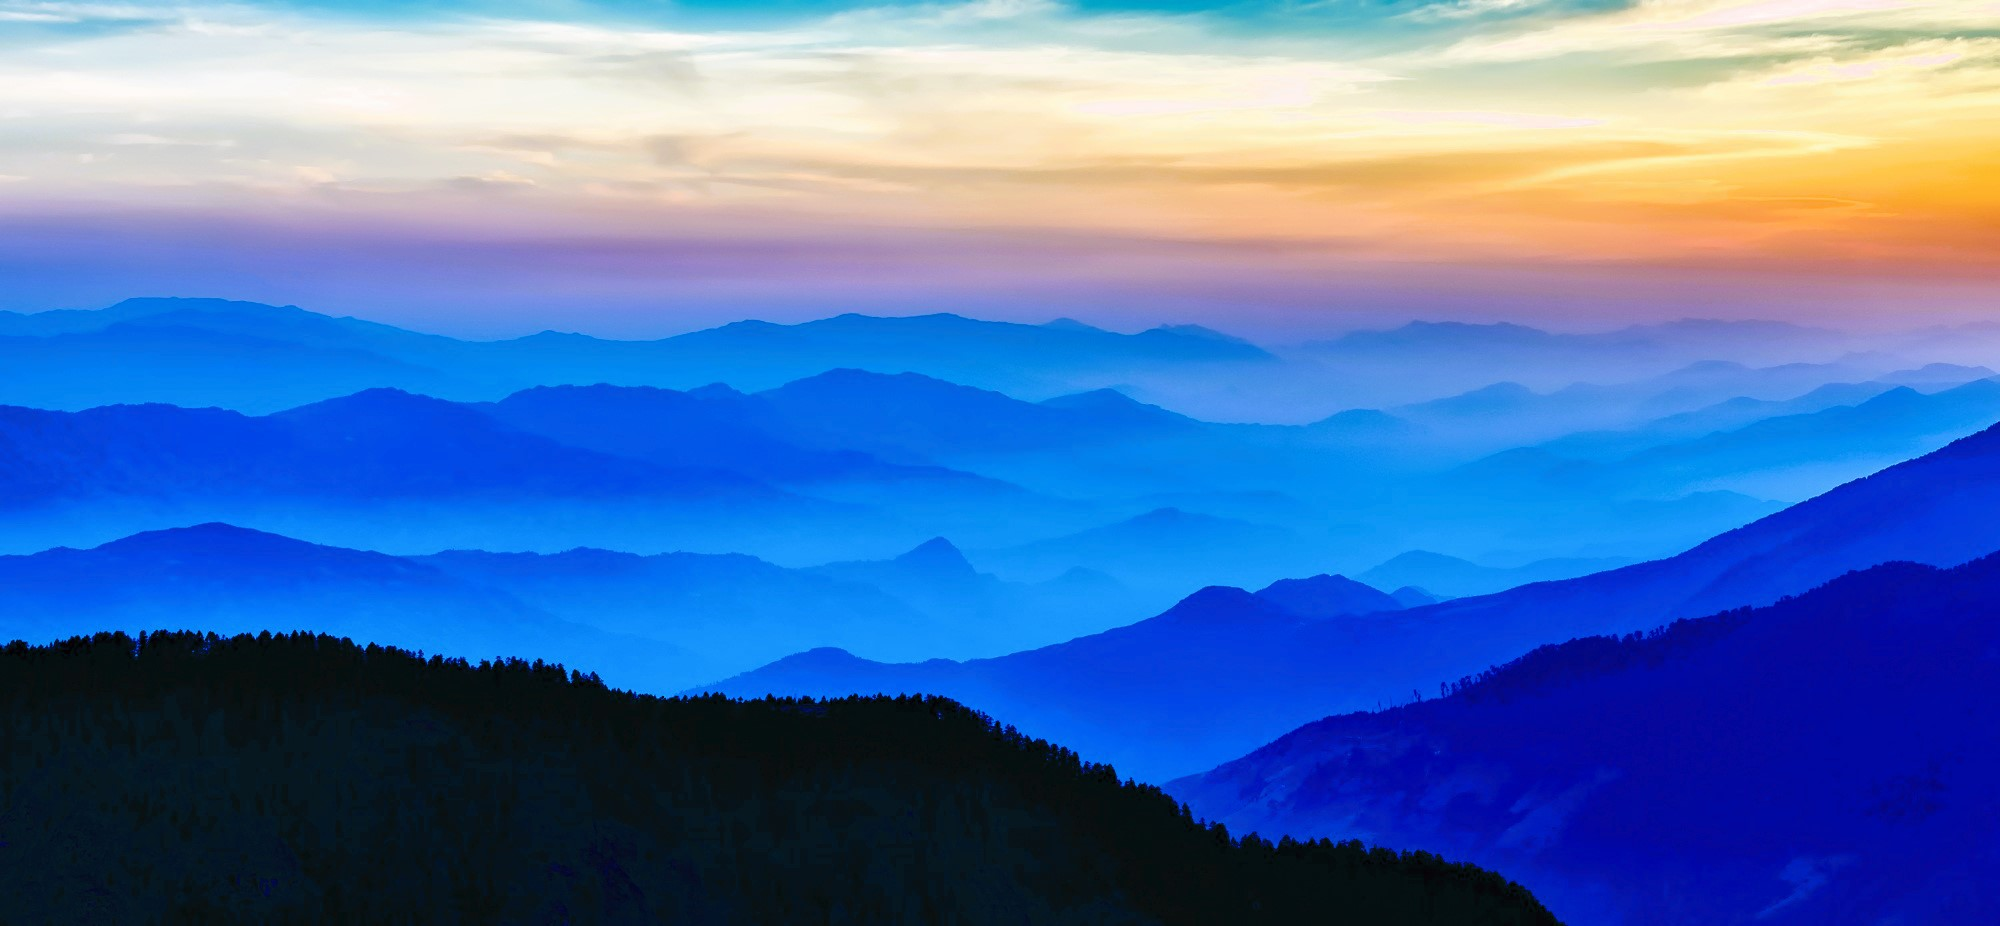
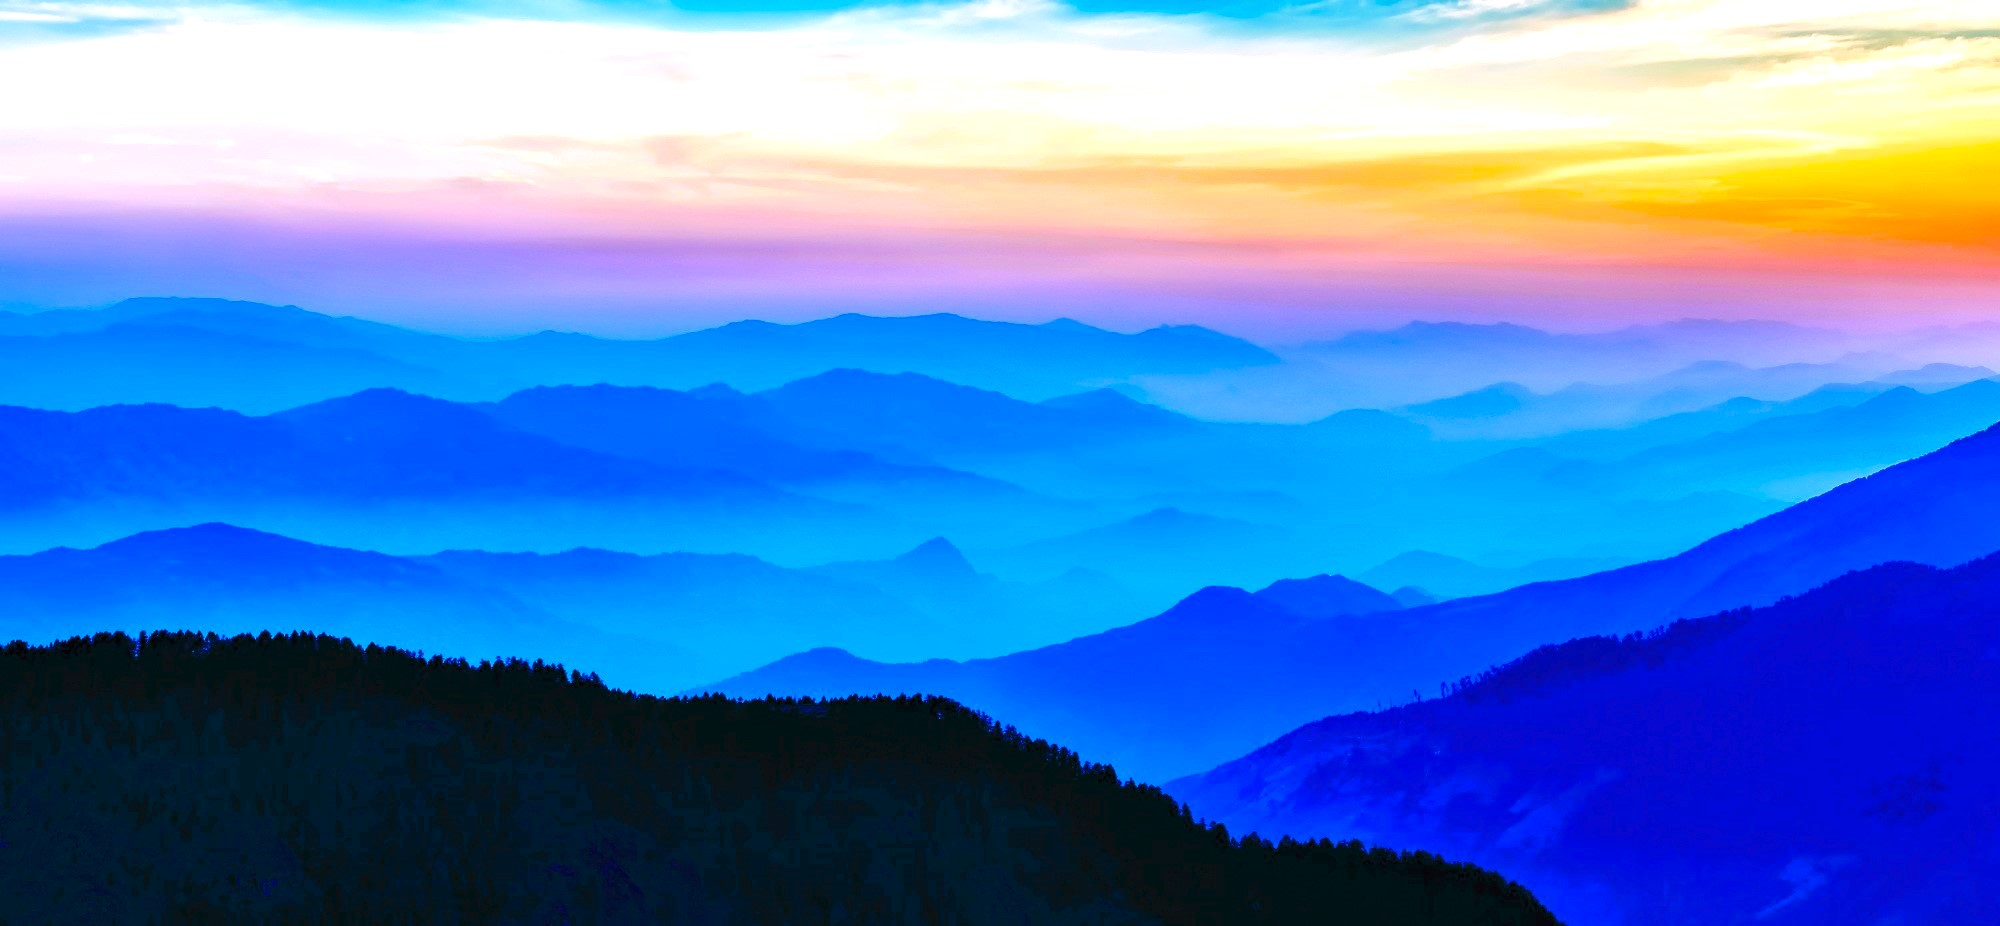
changed layout and improved background

diff --git a/src/components/header/index.jsx b/src/components/header/index.jsx
@@ -16,7 +16,7 @@ const classes = {
   description: 'text-gray-600',
   mediaWrapper: 'inline-flex mt-2 space-x-4 mr-auto ml-auto justify-center',
   iconWrapper: 'flex max-w-10 max-h-10',
-  icon: 'object-scale-down h-6 w-6 hover:scale-120 hover:text-blue-300',
+  icon: 'object-scale-down h-6 w-6 hover:scale-120 hover:text-blue-200',
 };
 
 const Header = () => {
@@ -50,11 +50,11 @@ const Header = () => {
   return (
     <div className={classes.wrapper}>
       <div className={classes.contentWrapper}>
-        <p className='text-7xl font-bold font-Montserrat text-center'>Hello!</p>
-        <p className=' text-4xl mt-2 font-semibold font-Montserrat text-center'>
+        <p className='text-6xl font-bold font-Montserrat text-center'>Hello!</p>
+        <p className=' text-2xl mt-2 font-semibold font-Montserrat text-center'>
           I'm {name}
         </p>
-        <p className=' text-sm mt-2 font-Poppins text-center'>
+        <p className=' text-sm mt-2 font-semibold font-Poppins text-center'>
         {description}
         </p>
         <div class="border-b-2 border-gray-500/40"></div>

diff --git a/src/pages/projects.jsx b/src/pages/projects.jsx
@@ -19,7 +19,6 @@ const Index = ({ data }) => {
   return (
     <Layout>
       <SEO title="Projects" />
-      <Header metadata={data.site.siteMetadata} />
       {!noProjects && <Projects projects={projects} />}
     </Layout>
   );

diff --git a/src/pages/blog.jsx b/src/pages/blog.jsx
@@ -18,7 +18,6 @@ const Index = ({ data }) => {
   return (
     <Layout>
       <SEO title="Blog" />
-      <Header metadata={data.site.siteMetadata} />
       {!noBlog && <BlogPosts posts={posts} />}
     </Layout>
   );
